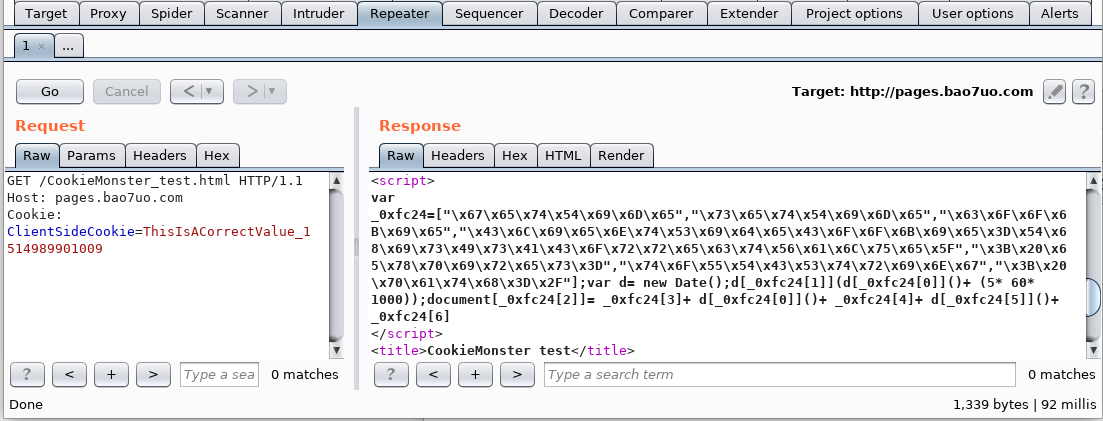
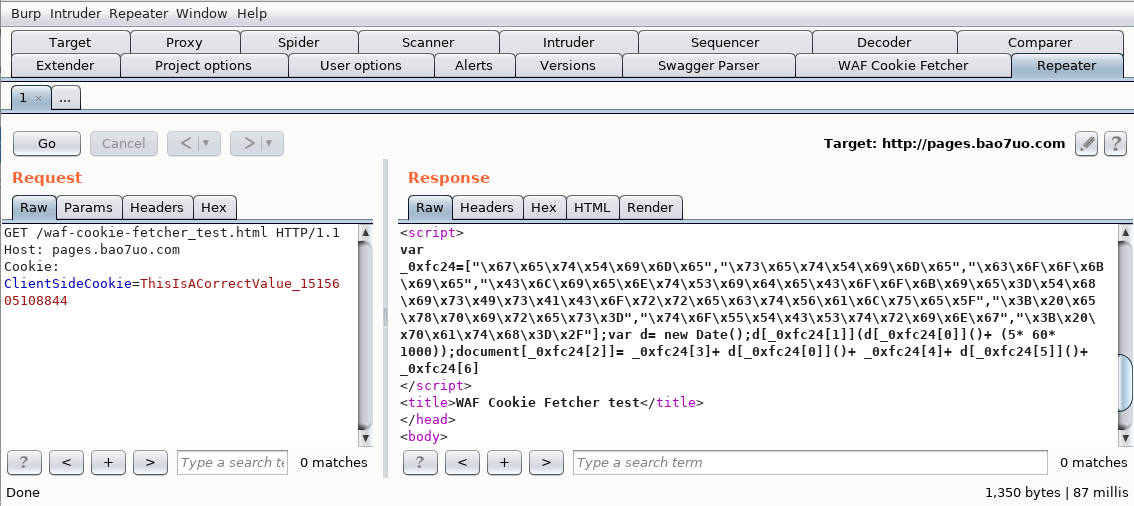
Rename extension

diff --git a/waf-cookie-fetcher.py b/waf-cookie-fetcher.py
@@ -1,7 +1,7 @@
 #
-#   CookieMonster Burp extension
+#   WAF Cookie Fetcher Burp extension
 #
-#   Copyright (C) 2017 Paul Taylor
+#   Copyright (C) 2017-2018 Paul Taylor
 #
 
 # Licensed under the Apache License, Version 2.0 (the "License");
@@ -51,7 +51,7 @@ class PhantomJS():
 
     uri = "http://phantomjs.org/api/command-line.html"
 
-    script_name = "BApp.CookieMonster.phantomjs.tmp"
+    script_name = "BApp.waf-cookie-fetcher.phantomjs.tmp"
     script_path = None
     script_data = """\
 var system = require("system");
@@ -602,7 +602,7 @@ class Panel_Fetch_Update_Cookies(JPanel):
                     PTTextField(
                             "url",
                             "Obtain cookies from this URL: ",
-                            "https://pages.bao7uo.com/CookieMonster_test.html", None
+                            "https://pages.bao7uo.com/waf-cookie-fetcher_test.html", None
                         ),
                     PTTextField(
                             "duration",
@@ -903,7 +903,7 @@ class Panel_Extension(JPanel):
 
         self._button_quit = \
             JButton(
-                    "Unload CookieMonster extension",
+                    "Unload WAF Cookie Fetcher",
                     actionPerformed=self._button_quit_pressed
                     )
 
@@ -958,7 +958,7 @@ class tabpanel(JPanel, Scrollable):
 class PTTab(ITab):
 
     def getTabCaption(self):
-        return "CookieMonster"
+        return "WAF Cookie Fetcher"
 
     def getUiComponent(self):
         return self.scrollpane
@@ -978,7 +978,7 @@ class PTTab(ITab):
 
 class BurpExtender(IBurpExtender):
 
-    extension_name = "CookieMonster"
+    extension_name = "WAF Cookie Fetcher"
 
     def registerExtenderCallbacks(self, callbacks):
 

diff --git a/README.md b/README.md
@@ -1,4 +1,4 @@
-# CookieMonster - A Burp Suite Extension
+# WAF Cookie Fetcher - A Burp Suite Extension
 [![Language](https://img.shields.io/badge/Lang-Python-blue.svg)](https://www.python.org)
 [![License](https://img.shields.io/badge/License-Apache%202.0-red.svg)](https://opensource.org/licenses/Apache-2.0)
 
@@ -9,13 +9,13 @@
 
 ## Overview
 
-![CookieMonster screenshot](https://github.com/bao7uo/CookieMonster/raw/master/images/title_screenshot.png)
+![WAF Cookie Fetcher screenshot](https://github.com/bao7uo/waf-cookir-fetcher/raw/master/images/title_screenshot.png)
 
-CookieMonster is a Burp Suite extension which allows web application security testers to register various types of cookie-related session handling actions to be performed by the Burp session handling rules.
+WAF Cookie Fetcher is a Burp Suite extension which allows web application security testers to register various types of cookie-related session handling actions to be performed by the Burp session handling rules.
 
 The extension can be used to add cookies to Burp's cookie jar which originate from a WAF or other bot defense system but are set in the browser using client-side code. Burp cannot normally detect updates to the values of these cookies without a request from the browser, which will not happen automatically during active scanning and intruder attacks etc. Therefore when the obfuscated new cookie value, or code to calculate the value is sent by the WAF's bot defense system, Burp doesn't update its cookie jar. This means that any requests which don't contain the updated value will be blocked. This makes it very difficult to use important Burp features such as the Scanner and Intruder when these bot defenses have been employed.
 
-CookieMonster defeats these defense techniques by generating a generic PhantomJS script and calling the PhantomJS binary with the necessary parameters to run the script. The script then loads the web page and waits for the JavaScript to set the cookie, which is then returned by PhantomJS and picked up by the Burp extension. Tests showed that calling the PhantomJS binary was quicker than using Selenium etc. Using the binary directly also means that there are less dependencies to run CookieMonster.
+WAF Cookie Fetcher defeats these defense techniques by generating a generic PhantomJS script and calling the PhantomJS binary with the necessary parameters to run the script. The script then loads the web page and waits for the JavaScript to set the cookie, which is then returned by PhantomJS and picked up by the Burp extension. Tests showed that calling the PhantomJS binary was quicker than using Selenium etc. Using the binary directly also means that there are less dependencies to run WAF Cookie Fetcher.
 
 The other action types allow features such as the removal of specific named cookies from Burp's cookie jar, and the ability to empty the whole jar. These additional features add some helpful flexibility when using more complex session handling rulesets, to ensure the session remains valid by avoiding problematic cookies or to ensure specific application code-paths are properly tested.
 
@@ -30,15 +30,15 @@ A lab page is provided (hosted on GitHub Pages) to try out the extension.
 
 #### Step-by-step
 
-- Load CookieMonster extension in Burp
+- Load WAF Cookie Fetcher extension in Burp
 - By default the extension contains the correct settings for the demo, so just click 'Add a new "Get cookies" session handler with these settings for these cookies'
-- Then go to Burp's project options tab, navigate to the Sessions Handling Rules section and click on the options cog icon to load the JSON options file from CookieMonster's demo folder (https://github.com/bao7uo/CookieMonster/raw/master/demo/CookieMonster_test.json). This will add the session handling rule and actions
-- Go to Burp's repeater tab and paste the contents of the txt file from the demo folder (https://github.com/bao7uo/CookieMonster/raw/master/demo/Repeater.txt)
+- Then go to Burp's project options tab, navigate to the Sessions Handling Rules section and click on the options cog icon to load the JSON options file from WAF Cookie Fetcher's demo folder (https://github.com/bao7uo/waf-cookie-fetcher/raw/master/demo/waf-cookie-fetcher_test.json). This will add the session handling rule and actions
+- Go to Burp's repeater tab and paste the contents of the txt file from the demo folder (https://github.com/bao7uo/waf-cookie-fetcher/raw/master/demo/Repeater.txt)
 - Add the correct target hostname (pages.bao7uo.com) and port 80 to Repeater
 
-![CookieMonster Demo screenshot](https://github.com/bao7uo/CookieMonster/raw/master/images/demo_screenshot.png)
+![WAF Cookie Fetcher demo screenshot](https://github.com/bao7uo/waf-cookie-fetcher/raw/master/images/demo_screenshot.png)
 
-If a cookie appears and the value changes every time you click "Go" in repeater, then the demo is working. As you will be able to see, the JavaScript response from the server is obfuscated, but CookieMonster is obtaining the correct value and placing it in the cookie jar, and Burp is then adding it to the Repeater Request.
+If a cookie appears and the value changes every time you click "Go" in repeater, then the demo is working. As you will be able to see, the JavaScript response from the server is obfuscated, but WAF Cookie Fetcher is obtaining the correct value and placing it in the cookie jar, and Burp is then adding it to the Repeater Request.
 
 ## Usage
 
@@ -46,11 +46,11 @@ If a cookie appears and the value changes every time you click "Go" in repeater,
 
 - It is preferable to use Burp's session management rules to check whether the session is valid so that this extension is only invoked when necessary, to avoid unnecessary PhantomJS requests. Any unnecessary requests could reduce Active Scan or Intruder Attack performance when they are relying on this extension.
 
-### CookieMonster settings for obtaining cookies
+### WAF Cookie Fetcher settings for obtaining cookies
 
 The settings/fields shown in the following screenshot are explained in this section.
 
-![CookieMonster settings screenshot](https://github.com/bao7uo/CookieMonster/raw/master/images/settings_screenshot.png)
+![WAF Cookie Fetcher settings screenshot](https://github.com/bao7uo/waf-cookie-fetcher/raw/master/images/settings_screenshot.png)
 
 #### Set cookies to be valid for domain
 
@@ -90,11 +90,12 @@ The settings/fields shown in the following screenshot are explained in this sect
 - For best results, it is usually appropriate to add a 'Check session is valid' rule action, located before the 'Get cookies' rule action.
 - The .json file in the demo folder of this repository provides a simple example of a rule with working actions
 
-## CookieMonster Roadmap
+## WAF Cookie Fetcher Roadmap
 
 This project is still under development.
 
 #### Potential future improvements:
+- "Test" button to pull in cookies and add them to list
 - Improve UI
 - Nomenclature
 - MVC pattern
@@ -111,6 +112,6 @@ Contributions, feedback and ideas will be appreciated.
 
 ## License notice
 
-Copyright (C) 2017 Paul Taylor
+Copyright (C) 2017-2018 Paul Taylor
 
 See LICENSE file for details.
